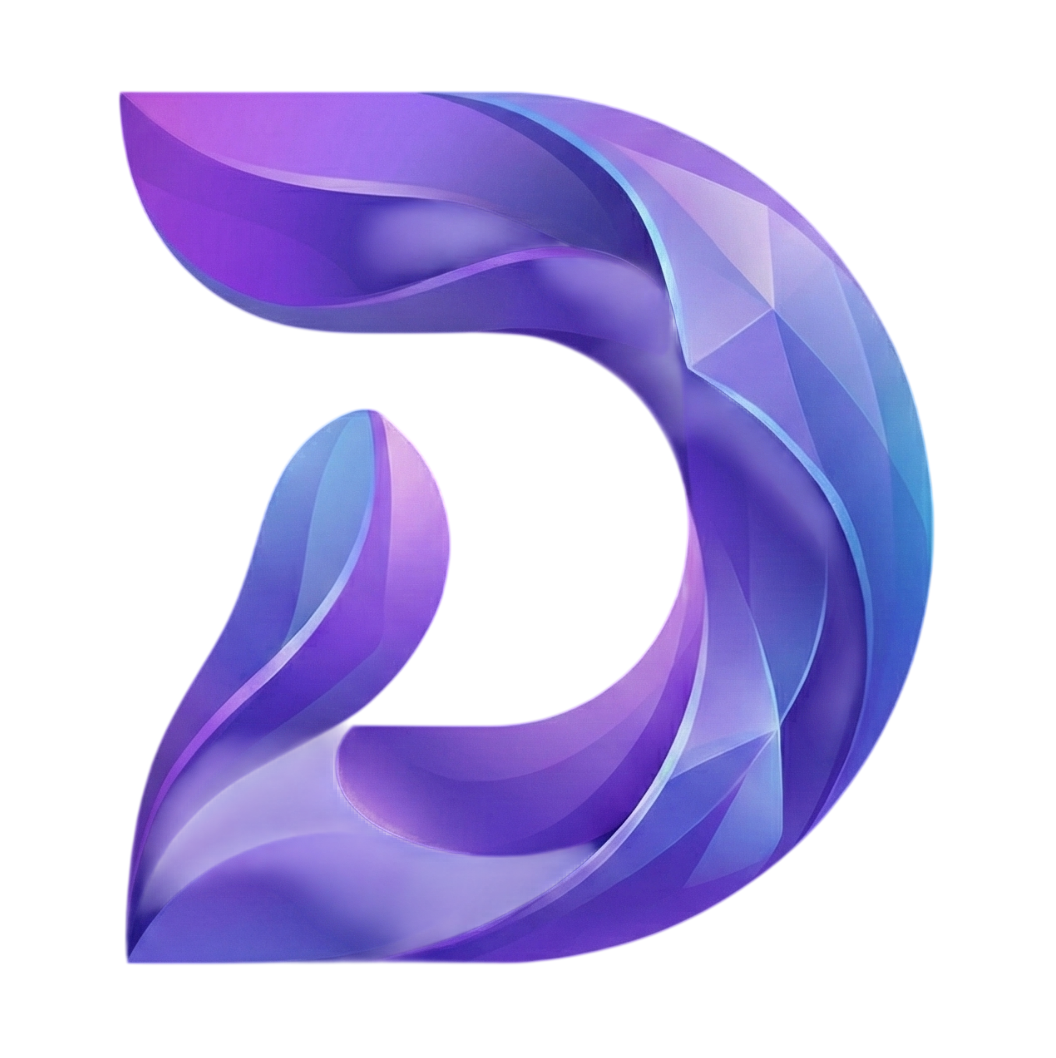
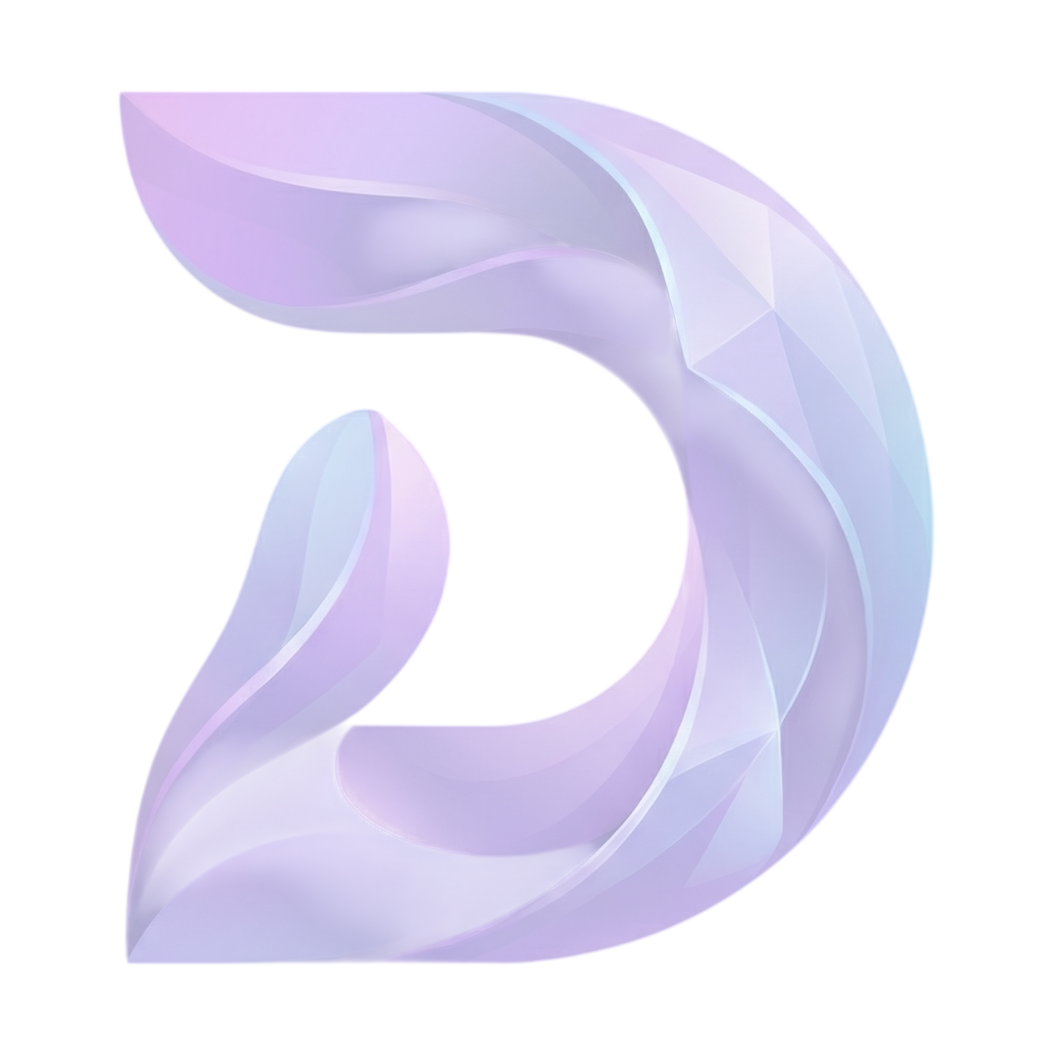
Update watermark image

diff --git a/routers/ai_router.py b/routers/ai_router.py
@@ -56,12 +56,12 @@ def save_video_direct(input_url, output_path):
 
 def apply_watermark(input_url, output_path, watermark_path="assets/watermark.png"):
     """
-    For FREE users: Streams video -> Adds transparent, centered watermark -> Saves to disk.
+    Optimized Version:
+    1. Uses pre-transparent image (Saves CPU).
+    2. Centers the watermark.
+    3. Disables log capture (Fixes Memory Crash).
     """
     temp_input = f"temp_{uuid.uuid4()}.mp4"
-    
-    # SET OPACITY HERE (0.1 = faint, 1.0 = solid)
-    opacity_level = "0.3" 
 
     try:
         # 1. STREAM DOWNLOAD (Memory Safe)
@@ -74,38 +74,42 @@ def apply_watermark(input_url, output_path, watermark_path="assets/watermark.png
         try:
             ffmpeg_exe = imageio_ffmpeg.get_ffmpeg_exe()
         except:
-            print("⚠ FFmpeg binary not found. Saving original.")
+            # Fallback if binary fails
+            if os.path.exists(output_path): os.remove(output_path)
             os.rename(temp_input, output_path)
             return
 
-        # 4. RUN FFMPEG (UPDATED FOR TRANSPARENCY & CENTERING)
-        # Explanation of filter_complex:
-        # [1:v]colorchannelmixer=aa=0.4[trans] -> Take input 1 (watermark), set alpha to 0.4, name result [trans]
-        # [0:v][trans]overlay=(main_w...)/2:(main_h...)/2 -> Take input 0 (video), overlay [trans] on top at center coordinates.
+        # 4. RUN FFMPEG (OPTIMIZED)
+        # Since your image is ALREADY transparent, we just need to overlay it.
+        # Math: (VideoWidth - WatermarkWidth) / 2  --> Centers it exactly.
         command = [
             ffmpeg_exe, '-y',
-            '-i', temp_input,      # Input [0:v]
-            '-i', watermark_path,  # Input [1:v]
-            '-filter_complex', 
-            f'[1:v]colorchannelmixer=aa={opacity_level}[trans];[0:v][trans]overlay=(main_w-overlay_w)/2:(main_h-overlay_h)/2',
-            '-c:v', 'libx264', '-preset', 'ultrafast',
-            '-c:a', 'copy',
+            '-hide_banner', '-loglevel', 'error',  # Silence logs (Saves CPU)
+            '-i', temp_input,
+            '-i', watermark_path,
+            '-filter_complex', 'overlay=(main_w-overlay_w)/2:(main_h-overlay_h)/2', # Centering
+            '-c:v', 'libx264', '-preset', 'ultrafast', # Speed > Compression
+            '-c:a', 'copy', # Copy audio without re-encoding
             output_path
         ]
         
-        subprocess.run(command, check=True, capture_output=True)
+        # CRITICAL FIX for "Exit Code 128":
+        # We replace 'capture_output=True' with 'subprocess.DEVNULL'.
+        # This tells Python: "Don't save logs to RAM, just discard them."
+        subprocess.run(command, check=True, stdout=subprocess.DEVNULL, stderr=subprocess.PIPE)
 
         # Cleanup
         if os.path.exists(temp_input):
             os.remove(temp_input)
 
     except Exception as e:
-        # (Fallback logic remains the same)
-        print(f"⚠ Video Processing Failed: {str(e)}")
+        print(f"⚠ Processing Error: {e}")
+        # Fallback: Deliver original video if FFmpeg crashes
         if os.path.exists(temp_input):
             if os.path.exists(output_path): os.remove(output_path)
             os.rename(temp_input, output_path)
         else:
+            # Last resort download
             save_video_direct(input_url, output_path)
 
 def cleanup_old_files(folder="static", age_limit=1800): 
